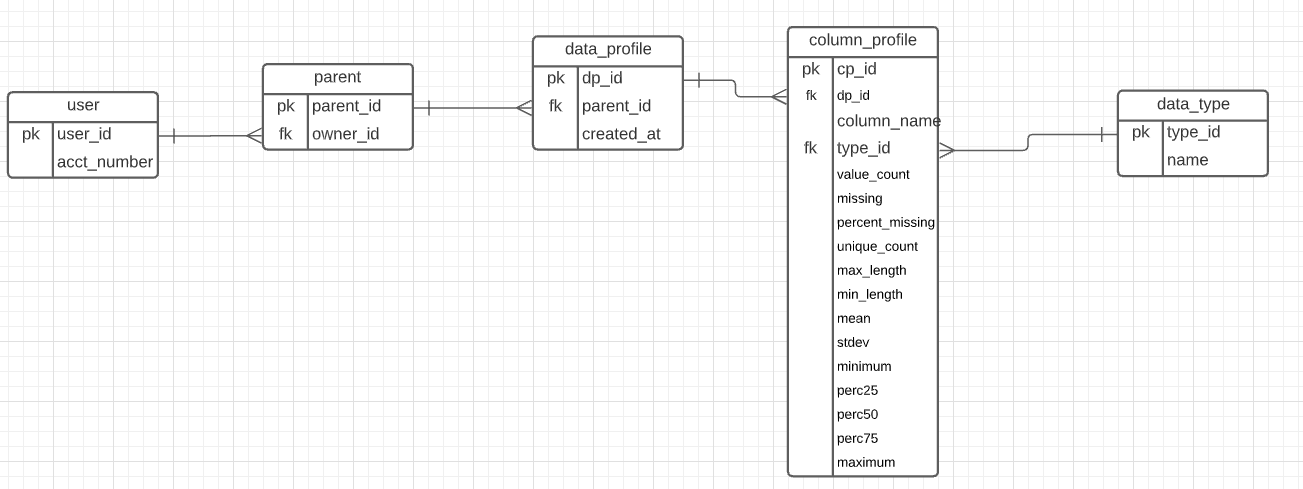
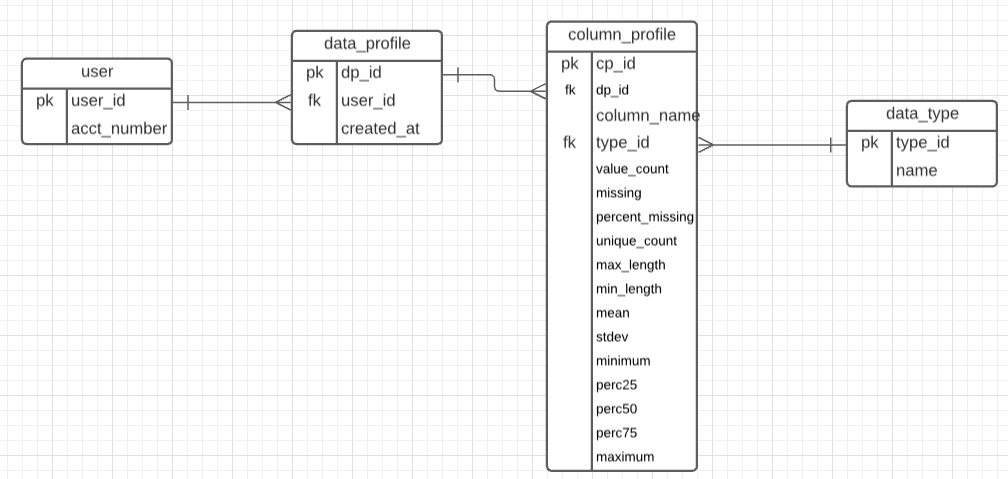
Simplifying ERD, get db credentials from .env file

diff --git a/profile_to_db.py b/profile_to_db.py
@@ -6,18 +6,19 @@ from snowflake.sqlalchemy import URL
 from sqlalchemy import create_engine
 from sqlalchemy.orm import sessionmaker
 # models of tables for upload
-from models import DataProfile, ColumnProfile, Parent, DataType
+from models import DataProfile, ColumnProfile, DataType
+from config import Config
 
 def test():
     data = pd.read_csv('dummy_profile.csv', sep=',')
-    profile_to_db(data, parent_id=None, user_id=0)
+    profile_to_db(data, user_id=0)
 
-def profile_to_db(dp_df, parent_id, user_id):
-    # TODO add parameters for parent_table_id and owner_id/user_id
+def profile_to_db(dp_df, user_id):
+    db_config = Config()
     engine = create_engine(URL(
-        account = acct['SNOWFLAKE_ACCOUNT'],
-        user = acct['SNOWFLAKE_USER'],
-        password = acct['SNOWFLAKE_PASSWORD'],
+        account = db_config.SNOWFLAKE_ACCOUNT,
+        user = db_config.SNOWFLAKE_USER,
+        password = db_config.SNOWFLAKE_PASSWORD,
         database = 'ADQ',
         schema = 'PUBLIC',
         warehouse = 'COMPUTE_WH',
@@ -27,13 +28,8 @@ def profile_to_db(dp_df, parent_id, user_id):
     session = sessionmaker(bind=engine)()
 
     try:
-        if parent_id is None:
-            newParent = Parent(owner_id=user_id)
-            session.add(newParent)
-            session.commit()
-            parent_id = newParent.parent_id
         # Creating a new data profile row in the data_profile table
-        newProfile = DataProfile(parent_id = parent_id)
+        newProfile = DataProfile(user_id = user_id)
         # Note, newProfile dp_id isn't created until commited since SF creates the value on insert
         session.add(newProfile)
 

diff --git a/models.py b/models.py
@@ -8,7 +8,7 @@ Base = declarative_base()
 class DataProfile(Base):
     __tablename__ = "data_profile"
     dp_id = Column(Integer, Sequence('dp_id_seq'), primary_key=True)
-    parent_id = Column(Integer, ForeignKey("parent.parent_id"), nullable=False)
+    user_id = Column(Integer, ForeignKey("user.user_id"), nullable=False)
     created_at = Column(DateTime, default=datetime.datetime.utcnow)
 
     # relationships
@@ -51,12 +51,12 @@ class User(Base):
     name = Column(Integer)
 
     # relationships
-    parent_id = relationship('Parent', backref='owner', lazy = True)
+    dp_id = relationship('DataProfile', backref='owner', lazy = True)
 
-class Parent(Base):
-    __tablename__ = "parent"
-    parent_id = Column(Integer, Sequence('parent_id_seq'), primary_key=True)
-    owner_id = Column(Integer, ForeignKey("user.user_id"), nullable=False)
+# class Parent(Base):
+#     __tablename__ = "parent"
+#     parent_id = Column(Integer, Sequence('parent_id_seq'), primary_key=True)
+#     owner_id = Column(Integer, ForeignKey("user.user_id"), nullable=False)
     
-    # relationships
-    dp_id = relationship('DataProfile', backref='parent_table', lazy = True)
+#     # relationships
+#     dp_id = relationship('DataProfile', backref='parent_table', lazy = True)

diff --git a/main.py b/main.py
@@ -5,11 +5,6 @@ def main():
     #  file path of data in csv format
     file_path = 'retail_banking/completedcard.csv'
     
-    # If incoming data is related to data previously profiled
-    # then add the parent_id of that data profile, otherwise
-    # leave null and a new parent_id will be auto-generated
-    parent_id = None
-
     # Id of the user/owner of account that submitted this data for profiling
     # Assuming user id has already been added to User table
     user_id = 0 
@@ -18,6 +13,6 @@ def main():
     dp_df = data_profiling(file_path)
 
     # upload profile to Snowflake
-    profile_to_db(dp_df, parent_id, user_id)
+    profile_to_db(dp_df, user_id)
 
 main()

diff --git a/validate_conn.py b/validate_conn.py
@@ -2,13 +2,15 @@
 from sfCredentials import acct
 from sqlalchemy import create_engine
 from snowflake.sqlalchemy import URL
+from config import Config
 
+db_config = Config()
 # If this program prints a version number (EX: 5.7.6) then the connection to a SF account works
 
 engine = create_engine(URL(
-        account = acct['SNOWFLAKE_ACCOUNT'],
-        user = acct['SNOWFLAKE_USER'],
-        password = acct['SNOWFLAKE_PASSWORD'],
+        account = db_config.SNOWFLAKE_ACCOUNT,
+        user = db_config.SNOWFLAKE_USER,
+        password = db_config.SNOWFLAKE_PASSWORD,
         database = 'ADQ',
         schema = 'PUBLIC',
         warehouse = 'COMPUTE_WH',

diff --git a/config.py b/config.py
@@ -1,0 +1,10 @@
+import os
+
+# key to allowing .env to act like environmental variables
+from dotenv import load_dotenv
+load_dotenv()
+
+class Config(object):
+    SNOWFLAKE_ACCOUNT = os.environ.get('SNOWFLAKE_ACCOUNT')
+    SNOWFLAKE_USER = os.environ.get('SNOWFLAKE_USER')
+    SNOWFLAKE_PASSWORD = os.environ.get('SNOWFLAKE_PASSWORD')
